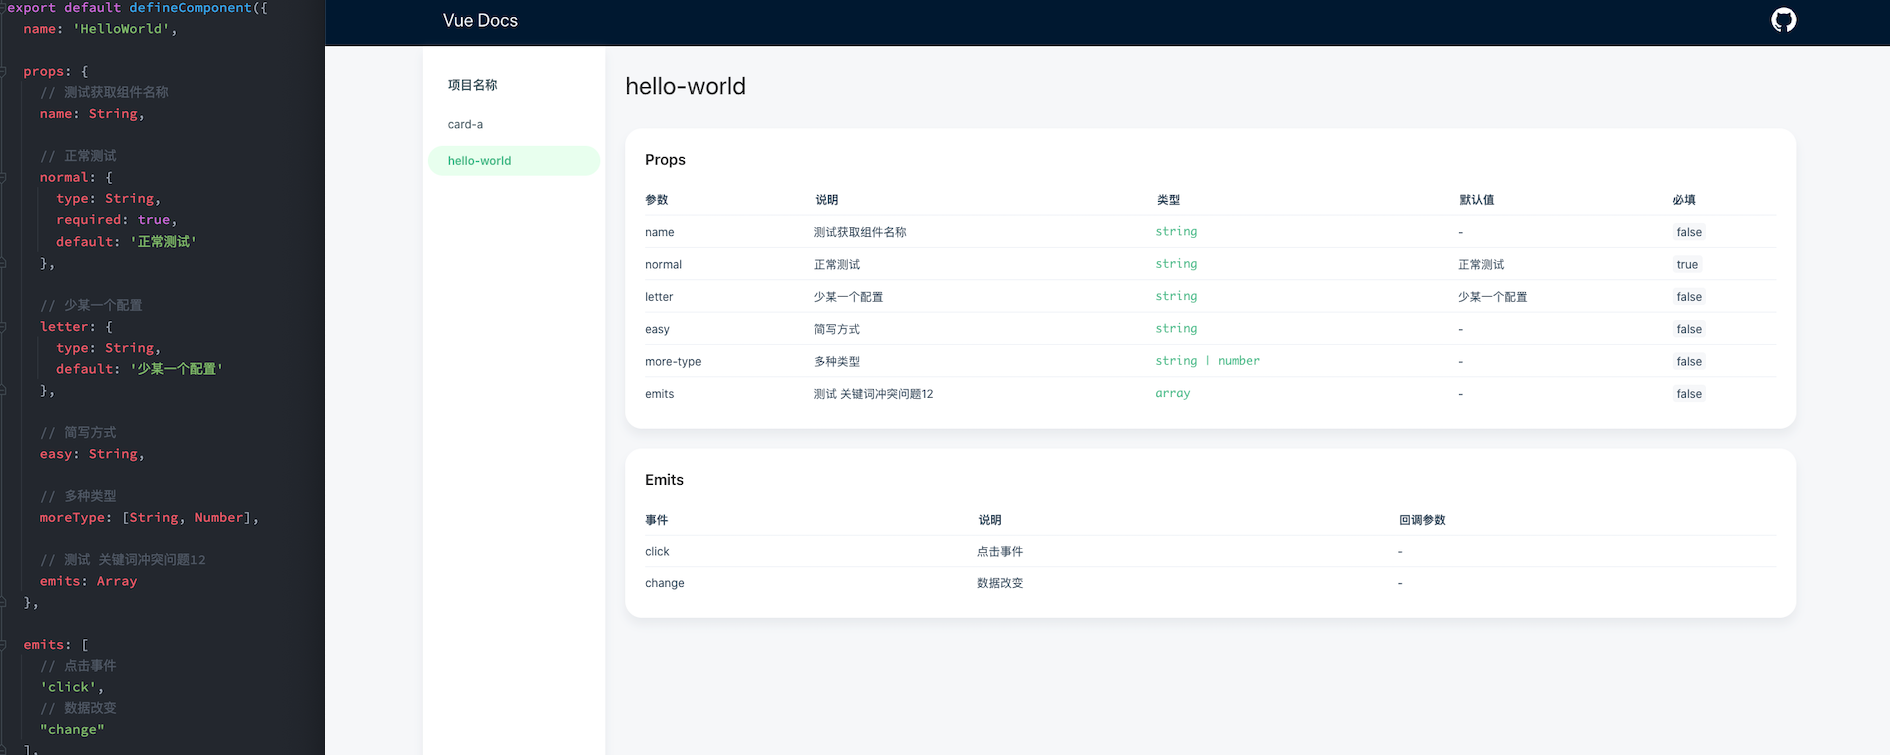
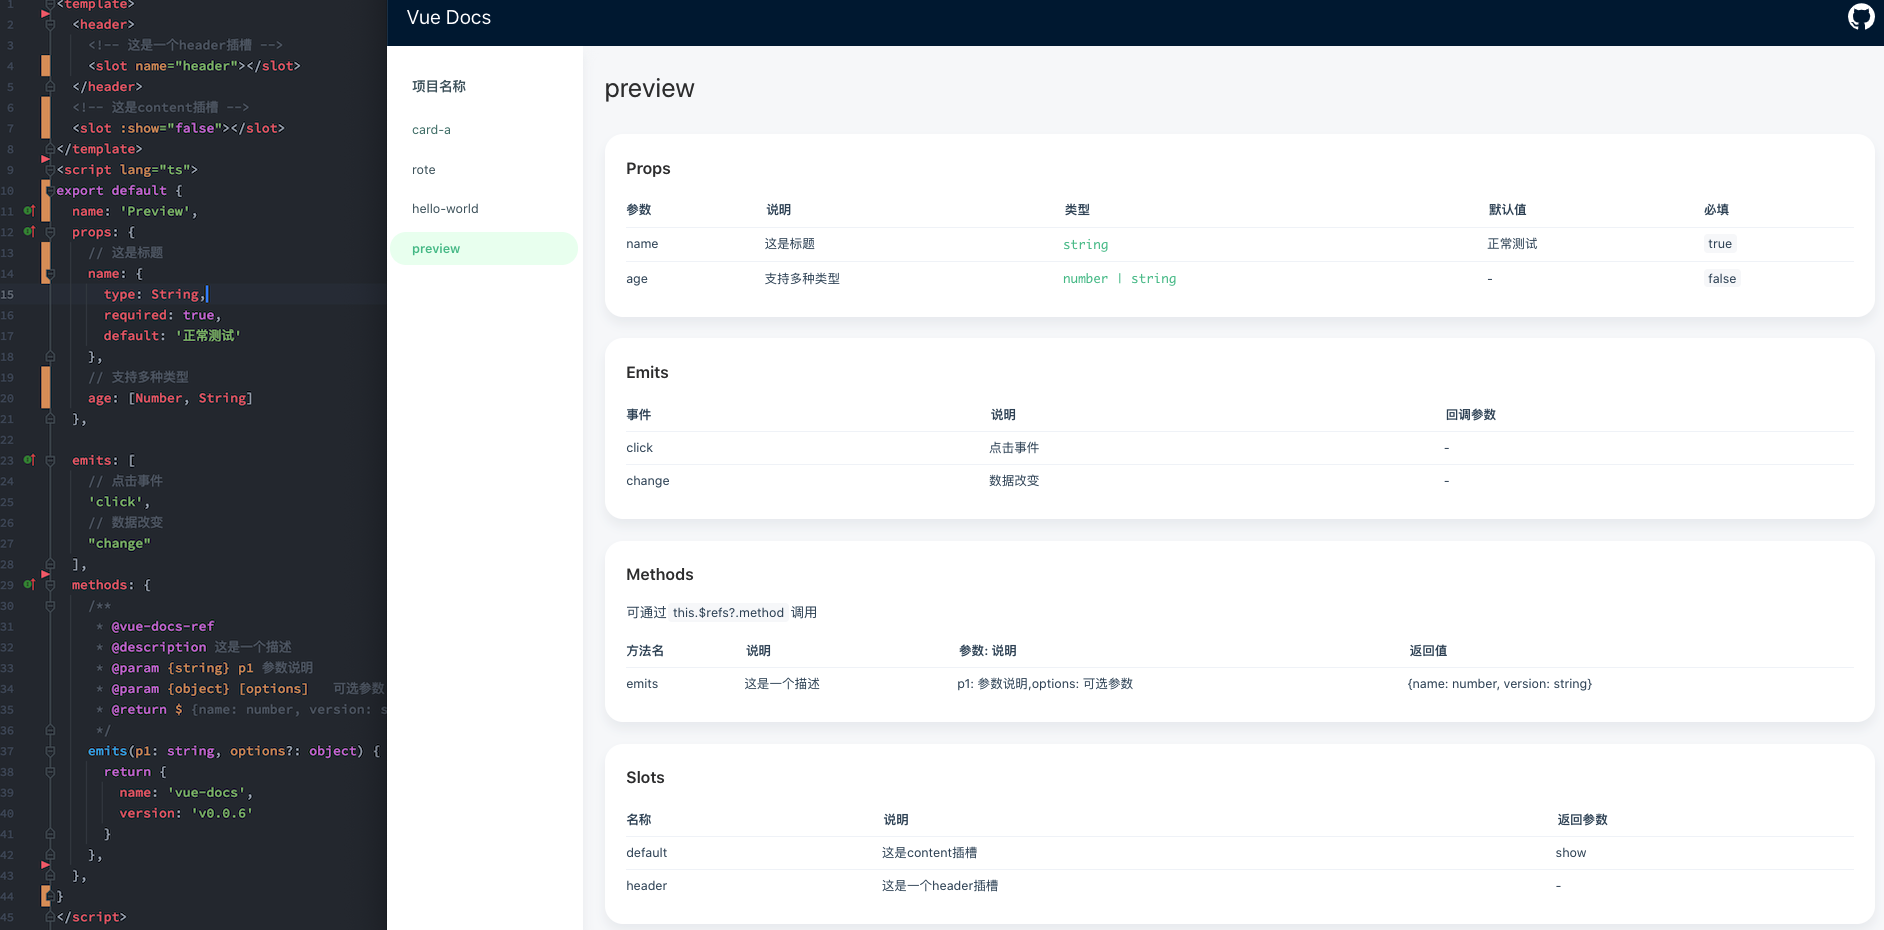
docs: readme

diff --git a/example/src/components/Preview.vue b/example/src/components/Preview.vue
@@ -1,0 +1,44 @@
+<template>
+  <header>
+    <!-- 这是一个header插槽 -->
+    <slot name="header"></slot>
+  </header>
+  <!-- 这是content插槽 -->
+  <slot :show="false"></slot>
+</template>
+<script lang="ts">
+export default {
+  name: 'Preview',
+  props: {
+    // 这是标题
+    name: {
+      type: String,
+      required: true,
+      default: '正常测试'
+    },
+    // 支持多种类型
+    age: [Number, String]
+  },
+  emits: [
+    // 点击事件
+    'click',
+    // 数据改变
+    "change"
+  ],
+  methods: {
+    /**
+     * @vue-docs-ref
+     * @description 这是一个描述
+     * @param {string} p1 参数说明
+     * @param {object} [options]   可选参数
+     * @return $ {name: number, version: string}
+     */
+    emits(p1: string, options?: object) {
+      return {
+        name: 'vue-docs',
+        version: 'v0.0.6'
+      }
+    },
+  },
+}
+</script>

diff --git a/example/src/components/HelloWorld.vue b/example/src/components/HelloWorld.vue
@@ -42,12 +42,6 @@ export default defineComponent({
     // 数据改变
     "change"
   ],
-
-  slots: [
-      "default",
-      "age"
-  ],
-
   methods: {
     /**
      * @vue-docs-ref
